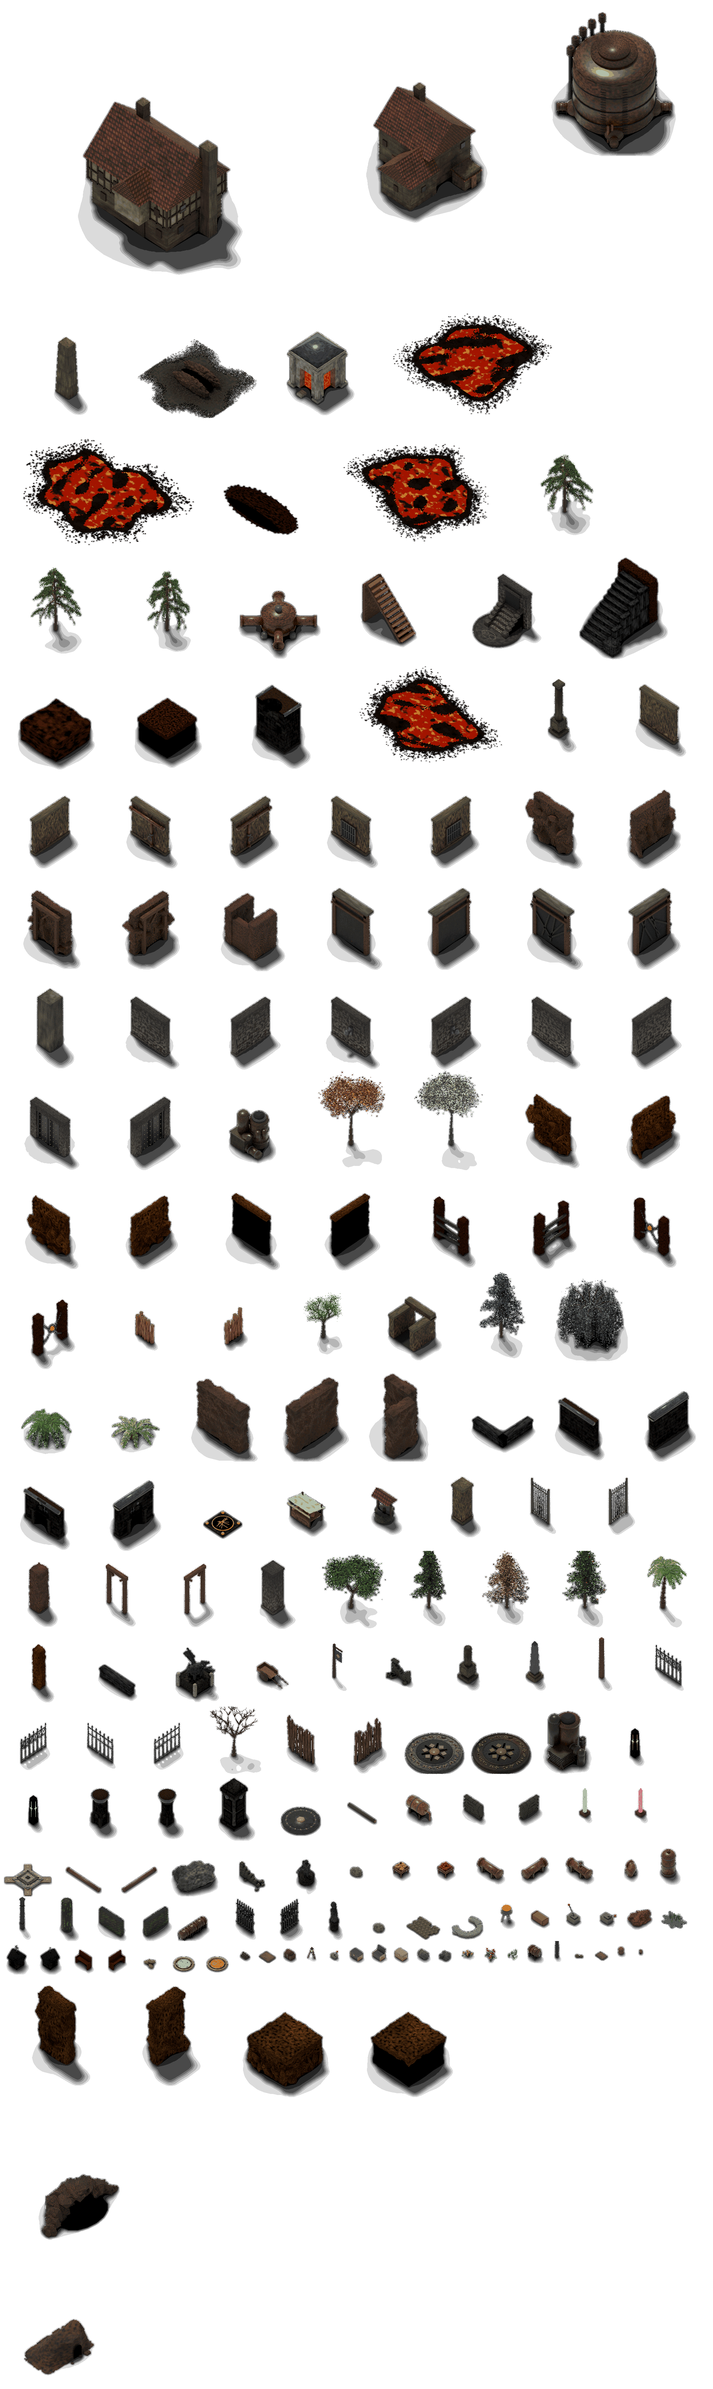
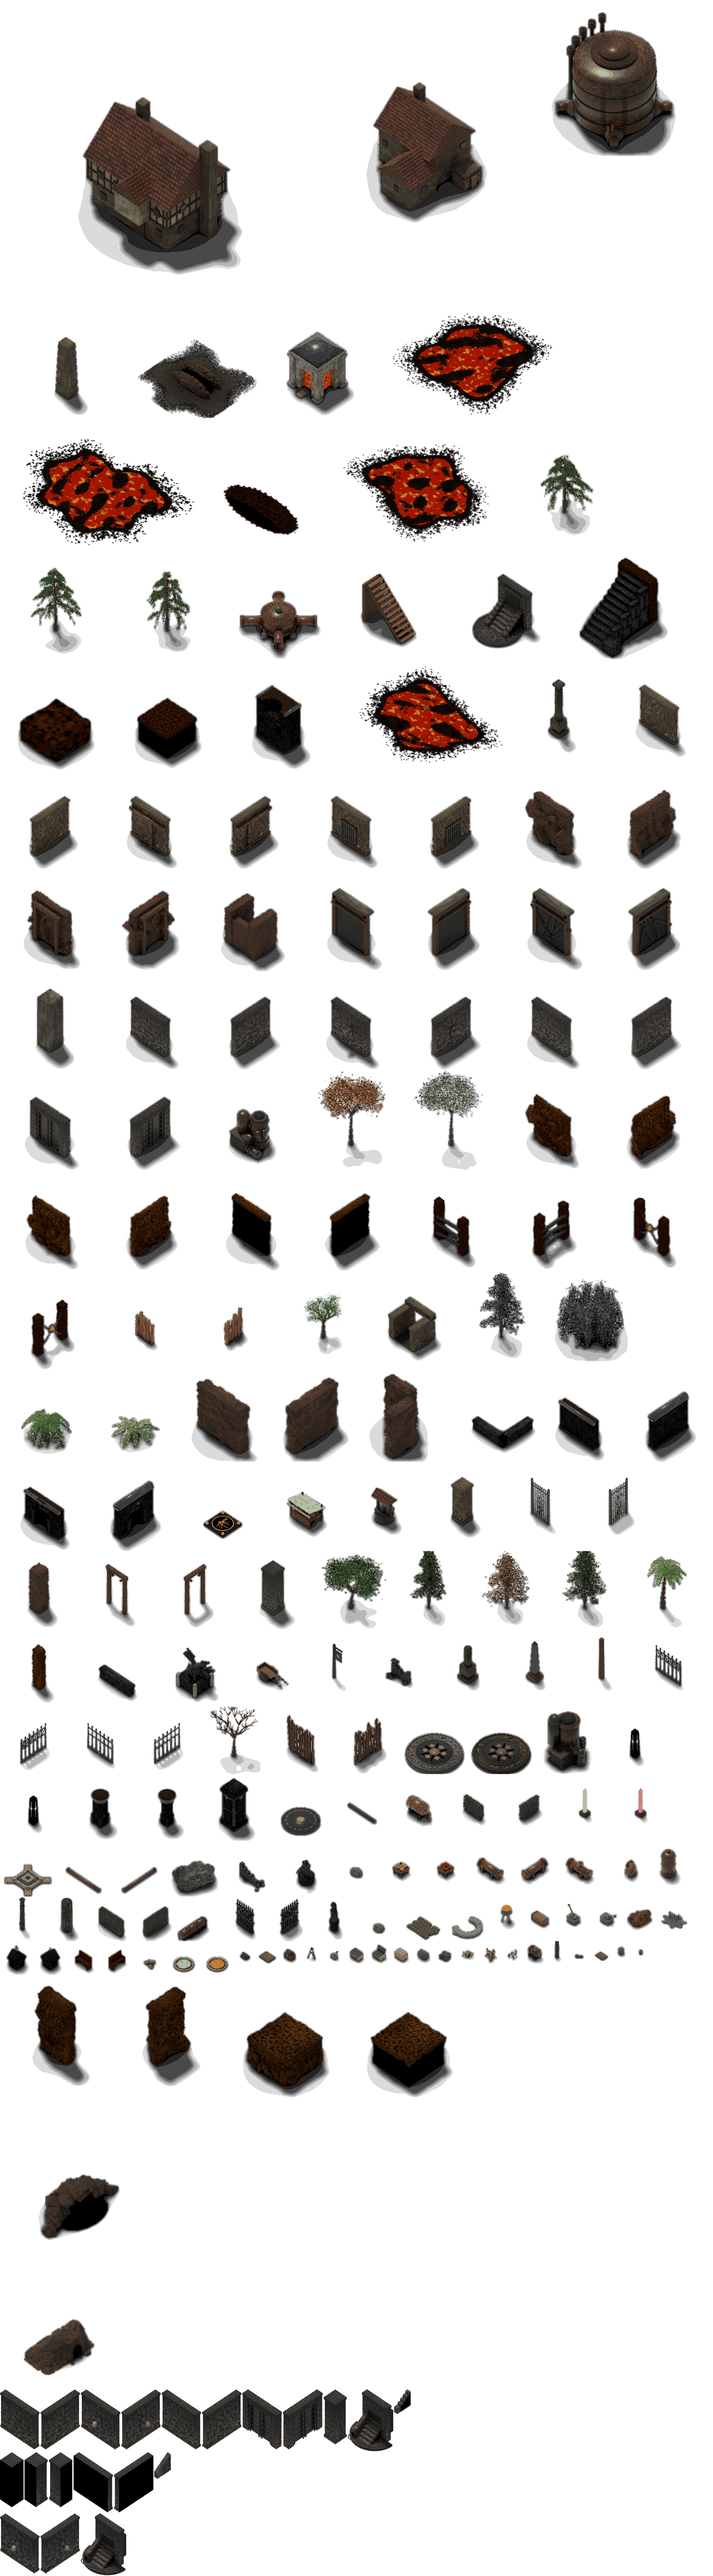
Fort: stairs set in the wall line, near walls blacked out, sconces, no cast shadows
The stair piece is a gateway on a half-round dais with its right-hand
low wall as its own piece, like the original draws it. Near-side walls
and pillars get blacked-out faces, the sconce walls get sconces, and
fort pieces no longer cast floor shadows. add_props.py no longer drops
the frames it redraws in place when it also appends others.

Claude-Session: https://claude.ai/code/session_01UcMoCU5phFRDaz2VddJRC8

diff --git a/tools/art/fort.py b/tools/art/fort.py
@@ -20,7 +20,7 @@ import bpy
 sys.path.insert(0, str(Path(__file__).resolve().parent))
 import studio  # noqa: E402
 from dungeon import DARK, WALL_H, WALL_L, solid, turn  # noqa: E402
-from town import IRON, _mats, ball, box, cyl, mat, resize  # noqa: E402
+from town import IRON, _mats, ball, box, cyl, mat, mesh, resize  # noqa: E402
 
 # Grey stone in blocks about 1.0 x 0.5 units, streaked with grime.
 # Weathered stone, its courses faint: pale grey patches through a dark
@@ -37,6 +37,7 @@ BRASS = dict(colour=(0.66, 0.56, 0.32), dark=(0.28, 0.22, 0.10), scale=18, rough
 # The round dais under the stairs: dark worn stone.
 DAIS = dict(colour=(0.30, 0.28, 0.24), dark=(0.05, 0.045, 0.035), scale=14, detail=16, bump=0.8, grime=0.5,
             band=(0.4, 0.7), spot=0.3, spot_colour=(0.12, 0.08, 0.05))
+SCONCE = dict(colour=(0.78, 0.74, 0.66), dark=(0.36, 0.33, 0.28), scale=14, rough=0.35, bump=0.3)
 SLATE = dict(colour=(0.58, 0.58, 0.60), dark=(0.24, 0.24, 0.26), scale=8, rough=0.5, bump=0.5)
 BRONZE = dict(colour=(0.40, 0.31, 0.20), dark=(0.10, 0.07, 0.04), scale=16, rough=0.35, bump=0.5,
               band=(0.30, 0.70), grime=0.4)
@@ -46,10 +47,30 @@ PIPECOPPER = dict(colour=(0.44, 0.26, 0.13), dark=(0.12, 0.06, 0.03), scale=20, 
 WALL_T = 0.8
 
 
+def void():
+    """Unlit black, for the faces the original blacks out."""
+    if "void" not in bpy.data.materials:
+        m = bpy.data.materials.new("void")
+        m.use_nodes = True
+        nodes = m.node_tree.nodes
+        nodes.clear()
+        emit = nodes.new("ShaderNodeEmission")
+        emit.inputs["Color"].default_value = (0, 0, 0, 1)
+        m.node_tree.links.new(emit.outputs[0], nodes.new("ShaderNodeOutputMaterial").inputs[0])
+    return bpy.data.materials["void"]
+
+
+def blackout(size, at):
+    """A black sheet over a face: the original draws the near side of the
+    fort's walls, the side the player never walks along, as plain black,
+    so only the tops show."""
+    box(size, at, void())
+
+
 def wall(along_y=False, kind=None, seed=1):
     """A wall of grey stone blocks between a plinth and a dark capping
-    course. kind: None, "torch" (an iron bracket on the face) or "blood"
-    (old stains)."""
+    course. kind: None, "torch" (an iron bracket on the face), "blood"
+    (old stains) or "black" (its face blacked out)."""
     stone = mat("bloody", BLOODY) if kind == "blood" else mat("stone", STONE)
     cap = mat("capstone", CAPSTONE)
     solid(box((WALL_L, WALL_T, WALL_H), (0, 0, WALL_H / 2), stone))
@@ -57,11 +78,14 @@ def wall(along_y=False, kind=None, seed=1):
     box((WALL_L + 0.1, WALL_T + 0.15, 0.35), (0, 0, 0.17), cap)
     face = -WALL_T / 2
     if kind == "torch":
-        iron = mat("iron", IRON)
-        x = random.Random(seed).uniform(-0.6, 0.6)
-        box((0.6, 0.35, 1.2), (x, face - 0.15, 3.1), iron)
-        box((0.2, 0.8, 0.2), (x, face - 0.5, 3.0), iron)
-        cyl(0.42, 0.5, (x, face - 0.95, 3.35), iron, r2=0.24, verts=10)
+        # A sconce: an iron plate and arm holding a pale metal cup.
+        iron, cup = mat("iron", IRON), mat("sconce", SCONCE)
+        x = random.Random(seed).uniform(-0.3, 0.3)
+        box((0.7, 0.2, 1.4), (x, face - 0.1, 3.2), iron)
+        box((0.22, 0.9, 0.22), (x, face - 0.55, 3.0), iron)
+        cyl(0.4, 0.55, (x, face - 1.0, 3.35), cup, r2=0.22, verts=12)
+    if kind == "black":
+        blackout((WALL_L + 0.12, 0.02, WALL_H + 0.25), (0, face - 0.12, (WALL_H + 0.25) / 2))
     if along_y:
         turn(math.pi / 2)
 
@@ -90,47 +114,69 @@ def door(along_y=False):
         turn(math.pi / 2)
 
 
-def pillar():
-    """A square stone pillar with a dark cap and base."""
+def pillar(black=""):
+    """A square stone pillar with a dark cap and base. black: which of
+    its faces are blacked out, "l" (the screen's left), "r" or "lr"."""
     stone, cap = mat("stone", STONE), mat("capstone", CAPSTONE)
     solid(box((2.0, 2.0, WALL_H + 1.0), (0, 0, (WALL_H + 1.0) / 2), stone))
     box((2.2, 2.2, 0.35), (0, 0, WALL_H + 1.1), cap)
     box((2.2, 2.2, 0.4), (0, 0, 0.2), cap)
+    h = WALL_H + 1.1 + 0.175
+    if "l" in black:
+        blackout((2.24, 0.02, h), (0, -1.12, h / 2))
+    if "r" in black:
+        blackout((0.02, 2.24, h), (1.12, 0, h / 2))
 
 
-def stairway():
-    """A flight of stone steps climbing between low side walls to a dark
-    doorway in the wall behind, on a round dais of dark carved stone."""
+def stairway(side=False):
+    """Stone steps climbing through a gateway in the wall into the dark,
+    on a half round dais of dark carved stone in front of it, with a low
+    wall along the left of the flight. side: only the low wall along the
+    right, which the original draws as a piece of its own."""
     stone, cap, hole = mat("stone", STONE), mat("capstone", CAPSTONE), mat("hole", DARK)
+    w, n, rise, run = 2.6, 8, 0.38, 0.5
+    y0 = -2.4  # front edge of the bottom step; the wall's face is at y = 0
+
+    def parapet(x):
+        # A low wall whose top climbs with the flight.
+        ya, yb, ha, hb = y0 - 0.15, 0.0, rise + 0.6, 6 * rise + 0.6
+        v = [(x + dx, y, z) for dx in (-0.3, 0.3) for y, z in ((ya, 0), (yb, 0), (yb, hb), (ya, ha))]
+        f = [(0, 1, 2, 3), (7, 6, 5, 4), (0, 4, 5, 1), (1, 5, 6, 2), (2, 6, 7, 3), (3, 7, 4, 0)]
+        mesh(v, f, stone, "parapet")
+        if x < 0:  # a post at the foot
+            solid(box((0.7, 0.7, 1.6), (x, y0 + 0.2, 0.8), stone))
+
+    if side:
+        parapet(w / 2 + 0.3)
+        return
     dais = mat("dais", DAIS)
-    w, n, rise, run = 2.6, 6, 0.42, 0.55
-    y0 = -1.1  # front edge of the bottom step
-    back = y0 + n * run  # where the flight meets the wall
-    # The wall behind, with a dark doorway at the top of the flight.
-    solid(box((w + 2.8, 0.8, WALL_H), (0, back + 0.4, WALL_H / 2), stone))
-    box((w + 2.9, 1.0, 0.3), (0, back + 0.4, WALL_H + 0.1), cap)
-    top = n * rise
-    box((w, 0.2, 2.6), (0, back - 0.02, top + 1.3), hole)
-    box((w + 0.6, 0.4, 0.4), (0, back - 0.1, top + 2.8), cap)
-    # The steps, each a block down to the floor; worn pale treads.
+    # The gateway: two jambs and a lintel, as thick as the fort's walls.
+    jamb = 1.0
+    for x in (-w / 2 - jamb / 2, w / 2 + jamb / 2):
+        solid(box((jamb, WALL_T, WALL_H), (x, WALL_T / 2, WALL_H / 2), stone))
+    gate = 3.8
+    solid(box((w, WALL_T, WALL_H - gate), (0, WALL_T / 2, (WALL_H + gate) / 2), stone))
+    box((w + 2 * jamb + 0.1, WALL_T + 0.2, 0.3), (0, WALL_T / 2, WALL_H + 0.1), cap)
+    # Darkness beyond the gateway, the flight climbing into it.
+    box((w, 2.0, gate), (0, 0.25 + 1.0, gate / 2), hole)
     for k in range(n):
         h = (k + 1) * rise
-        box((w, back - (y0 + k * run), h), (0, (y0 + k * run + back) / 2, h / 2), cap)
-    # Low side walls that step up with the flight.
-    for x in (-w / 2 - 0.35, w / 2 + 0.35):
-        for k in range(n):
-            h = (k + 1) * rise + 0.5
-            y = y0 + k * run - (0.2 if k == 0 else 0)
-            solid(box((0.7, back - y, h), (x, (y + back) / 2, h / 2), stone))
-    # The dais: a round slab, carved with rings and a curl in front.
-    bpy.ops.mesh.primitive_cylinder_add(vertices=48, radius=3.3, depth=0.3, location=(0, y0 + 0.4, 0.15))
-    studio.assign(bpy.context.object, dais)
-    bpy.ops.mesh.primitive_torus_add(major_radius=3.15, minor_radius=0.12, location=(0, y0 + 0.4, 0.3))
-    rim = studio.assign(bpy.context.object, dais)
-    rim.scale = (1, 1, 0.6)
-    for r, cx in ((0.55, -0.7), (0.55, 0.7), (1.1, 0.0)):
-        bpy.ops.mesh.primitive_torus_add(major_radius=r, minor_radius=0.07, location=(cx, y0 - 1.3, 0.31))
-        studio.assign(bpy.context.object, cap).scale = (1, 0.6, 0.4)
+        y = y0 + k * run
+        box((w, 1.2 - y, h), (0, (y + 1.2) / 2, h / 2), cap)
+    parapet(-w / 2 - 0.3)
+    # The dais: a half round slab in front of the wall, carved with rings
+    # and a curl.
+    bpy.ops.mesh.primitive_cylinder_add(vertices=48, radius=3.4, depth=0.3, location=(0, 0, 0.15))
+    disc = studio.assign(bpy.context.object, dais)
+    cut = box((8.0, 4.0, 1.0), (0, 2.0, 0.2), cap)
+    boolean = disc.modifiers.new("cut", "BOOLEAN")
+    boolean.object, boolean.operation = cut, "DIFFERENCE"
+    bpy.context.view_layer.objects.active = disc
+    bpy.ops.object.modifier_apply(modifier="cut")
+    bpy.data.objects.remove(cut)
+    for r, cx, cy in ((0.45, -2.3, -1.2), (0.45, -2.0, -2.1), (0.8, -1.4, -2.5)):
+        bpy.ops.mesh.primitive_torus_add(major_radius=r, minor_radius=0.07, location=(cx, cy, 0.31))
+        studio.assign(bpy.context.object, cap).scale = (1, 1, 0.4)
 
 
 def teleporter():
@@ -287,7 +333,13 @@ PROPS = {
     "fdoor_x": (door, 288),
     "fdoor_y": (lambda: door(along_y=True), 288),
     "fpillar": (pillar, 224),
+    "fpillar_black": (lambda: pillar("lr"), 224),
+    "fpillar_black_l": (lambda: pillar("l"), 224),
+    "fpillar_black_r": (lambda: pillar("r"), 224),
+    "fwall_black_x": (lambda: wall(kind="black"), 288),
+    "fwall_black_y": (lambda: wall(along_y=True, kind="black"), 288),
     "fstairs": (stairway, 320),
+    "fstairs_side": (lambda: stairway(side=True), 160),
     "teleporter": (teleporter, 160),
     "switch_up": (lambda: (switch(True), resize(1.6)), 96),
     "switch_down": (lambda: (switch(False), resize(1.6)), 96),
@@ -320,6 +372,8 @@ def main():
         _mats.clear()
         scene = studio.reset(samples=32)
         build()
+        # The original's fort casts no shadows on the floor.
+        bpy.data.objects["shadow catcher"].hide_render = True
         studio.camera(scene, size, size, target=(0, 0, size / studio.PIXELS_PER_UNIT * 0.3))
         ax, ay = studio.anchor(scene)
         if blend:

diff --git a/tools/art/add_props.py b/tools/art/add_props.py
@@ -57,7 +57,8 @@ def main():
     grown = Image.new("RGBA", (width, sheet.height + strip))
     grown.paste(sheet, (0, 0))
     x = 0
-    lines = [l for l in lines if not (l.startswith("frame=") and l.split(",")[-1] in names)]
+    added = {name for name, _, _, _ in pieces}
+    lines = [l for l in lines if not (l.startswith("frame=") and l.split(",")[-1] in added)]
     while lines and not lines[-1]:
         lines.pop()
     for name, im, ax, ay in pieces:
@@ -67,7 +68,7 @@ def main():
     grown.save(SHEET.parent / image_name)
     SHEET.write_text("\n".join(lines) + "\n")
     shrink(SHEET.parent / image_name)
-    print(f"added {', '.join(names)} to {SHEET}")
+    print(f"added {', '.join(added)} to {SHEET}" + (f", redrew {', '.join(redrawn)}" if redrawn else ""))
 
 
 if __name__ == "__main__":
